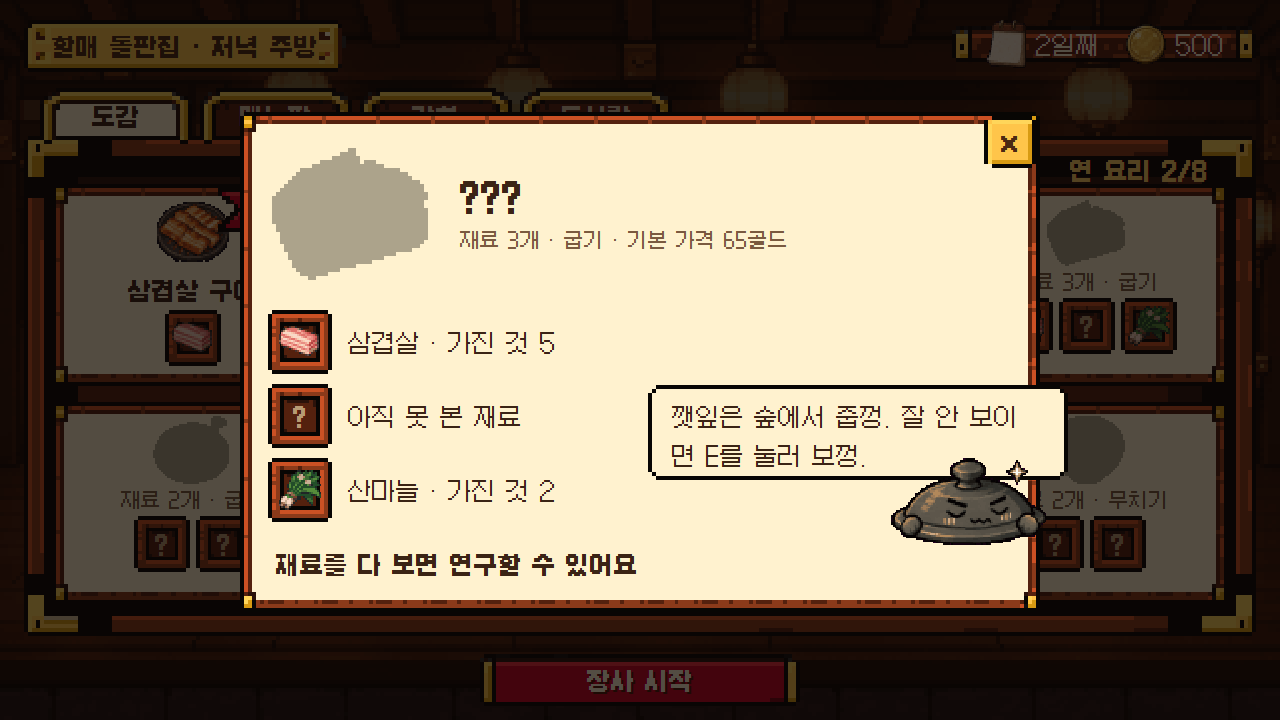
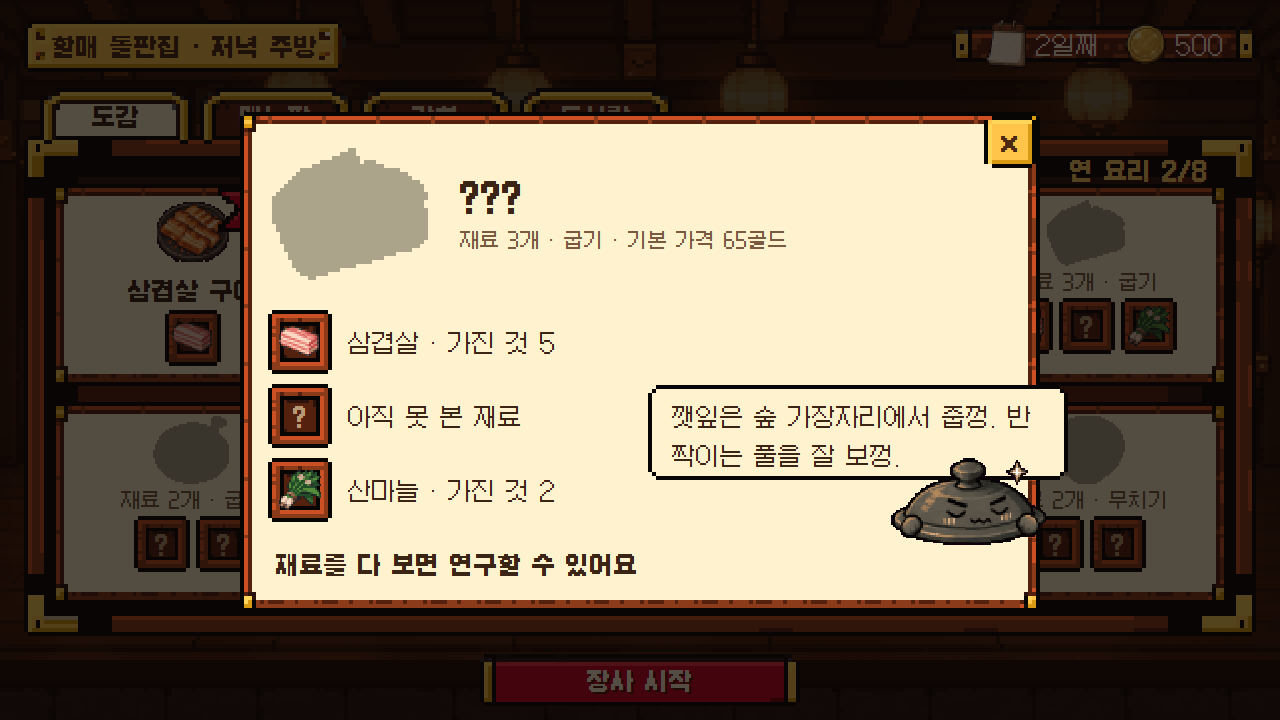
docs: perilla hint without a keyboard key (works on mobile too)

Changed region(s): [[0.5, 0.55, 0.8125, 0.6722]]

diff --git a/art-src/mockups/kitchen-cookbook-hint.html b/art-src/mockups/kitchen-cookbook-hint.html
@@ -180,7 +180,7 @@
     <div class="foot">
       <span class="cost soft">재료를 다 보면 연구할 수 있어요</span>
     </div>
-    <div class="say slice"><span>깻잎은 숲에서 줍껑. 잘 안 보이면 E를 눌러 보껑.</span></div>
+    <div class="say slice"><span>깻잎은 숲 가장자리에서 줍껑. 반짝이는 풀을 잘 보껑.</span></div>
     <img class="lid" src="../../art/test/lid/smug.png" alt="">
   </div>
 </div>

diff --git a/docs/superpowers/plans/2026-10-15-07a-restaurant-v2-recipes-kitchen.md b/docs/superpowers/plans/2026-10-15-07a-restaurant-v2-recipes-kitchen.md
@@ -1509,7 +1509,7 @@ git commit -m "chore: the recipe table is public; no server-only answers, no bun
 | `where.chicken_breast` | 닭가슴살도 숲 닭이껑. 한 마리씩 떼어 내 잡껑. | Chicken breast too. Pick them off one at a time. |
 | `where.shiitake` | 표고는 숲 바닥에서 줍껑. 나무 밑을 잘 보껑. | Shiitake grows on the forest floor. Look under the trees. |
 | `where.wild_garlic` | 산마늘은 풀숲에 숨어 있껑. 냄새로 찾껑. | Wild garlic hides in the grass. Follow your nose. |
-| `where.perilla` | 깻잎은 숲에서 줍껑. 잘 안 보이면 E를 눌러 보껑. | Perilla is picked in the forest. Press E when you're near. |
+| `where.perilla` | 깻잎은 숲 가장자리에서 줍껑. 반짝이는 풀을 잘 보껑. | Perilla grows at the forest's edge. Look for the shining leaves. |
 
 - [ ] **Step 2: 도감**
 
